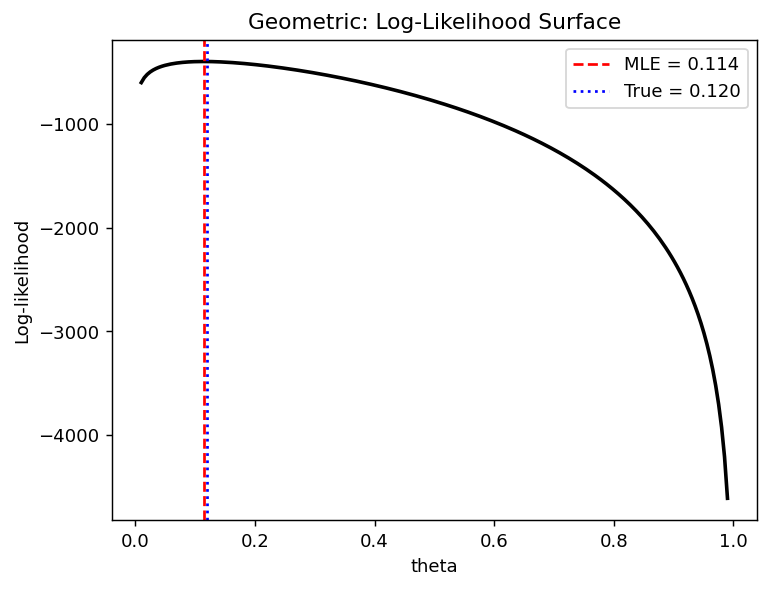
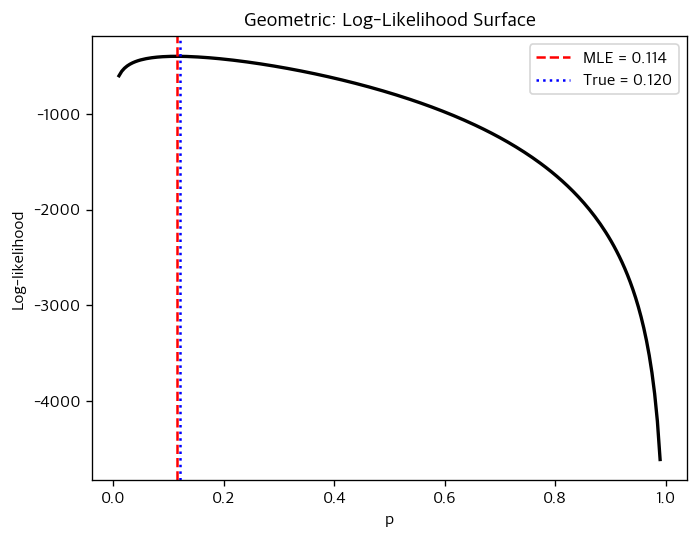
fix(ch06): 보고만 해 두었던 항목을 마무리한다
앞 편집 패스가 고치지 않고 남긴 항목을 하나씩 판정해 끝냈다. 이미 닫힌 것과 보고가
틀린 것은 건드리지 않았고, 펜스를 고친 쪽은 실제로 돌린 출력을 붙여 verify_outputs 로
맞췄다. 그림을 다시 그린 것은 스크립트와 함께 담았다. 바깥 사실은 확인한 출처로만 고쳤다.

Changed region(s): [[0.0, 0.0, 0.9914, 0.9517], [0.691, 0.2379, 0.8412, 0.3866], [0.5107, 0.9517, 0.6009, 0.9814]]

diff --git a/docs/ch06/mle/mle_optimization.md b/docs/ch06/mle/mle_optimization.md
@@ -2,7 +2,7 @@
 
 ## 개요
 
-같은 자료, 같은 코드, 바꾼 것은 출발값 하나다. 성분 둘짜리 정규 혼합에 적합하면 한 출발점은 $\mu_1 = 0.154$, $\mu_2 = 3.900$ 을 주고 다른 출발점은 그 둘을 맞바꾼 답을 주는데, 음의 로그가능도는 둘 다 $402.58$ 로 **한 치도 다르지 않다.** 그렇다고 봉우리를 격자로 훑어 가려 보려 들면 모수 하나를 소수 넷째 자리까지 맞히는 데 격자점 $20{,}001$ 개가 들고, 그보다 성긴 $500$ 점 격자만 모수 넷에 펼쳐도 $6.25 \times 10^{10}$ 점으로 불어나 애초에 셈이 되지 않는다. 답이 둘인가 같은 답의 두 이름인가, 그리고 그것을 격자 없이 어떻게 가리는가.
+같은 자료, 같은 코드, 바꾼 것은 출발값 하나다. 성분 둘짜리 정규 혼합에 적합하면 한 출발점은 $\mu_1 = 0.154$, $\mu_2 = 3.900$ 을 주고 다른 출발점은 그 둘을 맞바꾼 답을 주는데, 음의 로그가능도는 둘 다 $402.58$ 로 **한 치도 다르지 않다.** 그렇다고 봉우리를 격자로 훑어 가려 보려 들면 모수 하나의 오차를 $10^{-4}$ 안으로 묶는 데만 격자점 $20{,}001$ 개가 들고, 그보다 성긴 $500$ 점 격자만 모수 넷에 펼쳐도 $6.25 \times 10^{10}$ 점으로 불어나 애초에 셈이 되지 않는다. 답이 둘인가 같은 답의 두 이름인가, 그리고 그것을 격자 없이 어떻게 가리는가.
 
 닫힌 해가 있는 모형은 드물다. 대부분은 로그가능도를 **직접 계산해** 그 봉우리를 **찾아야** 한다. 이 쪽은 그 두 일을 차례로 다룬다.
 
@@ -588,7 +588,7 @@ $$
 
     더 눈여겨볼 것은 로그가능도의 손실이다. 실제 $2.402909\times10^{-6}$과 이차식이 예측한 $2.402909\times10^{-6}$이 **일곱 자리까지 같다.** (1)에서 포물선이 근사가 아니라 항등식이라고 한 그대로이며, 근사가 아니라 정확한 예측이다.
 
-    **격자의 대가는 여기서 분명해진다.** $\hat\mu$를 소수 넷째 자리까지 맞히려면 간격을 $2\times10^{-4}$ 아래로 줄여야 하므로 격자점이 $20{,}001$개 필요하다. 지금의 $500$점보다 $40$배다. 닫힌 해 $\bar x$는 덧셈 $100$번이면 끝나고 자리 손실도 없다. **닫힌 해가 있으면 격자를 쓸 이유가 없고**, 격자는 닫힌 해가 없을 때 또는 곡면의 모양을 눈으로 보고 싶을 때 쓰는 도구다.
+    **격자의 대가는 여기서 분명해진다.** $\hat\mu$의 오차를 소수 넷째 자리의 한 단위 $10^{-4}$ 안으로 묶으려면 반 칸이 $10^{-4}$, 곧 간격이 $2\times10^{-4}$ 이하여야 하므로 격자점이 $20{,}001$개 필요하다. 지금의 $500$점보다 $40$배다. 넷째 자리를 **반올림까지** 맞히려면 반 칸이 $0.5\times10^{-4}$ 이어야 하니 간격 $10^{-4}$, 격자점 $40{,}001$개로 다시 두 배가 된다. 닫힌 해 $\bar x$는 덧셈 $100$번이면 끝나고 자리 손실도 없다. **닫힌 해가 있으면 격자를 쓸 이유가 없고**, 격자는 닫힌 해가 없을 때 또는 곡면의 모양을 눈으로 보고 싶을 때 쓰는 도구다.
 
     모수가 $d$개면 격자점이 $(\text{격자 수})^d$로 폭발한다는 점도 함께 기억해 두자. 지금 쓴 $500$점을 모수 넷에 똑같이 적용하면 $500^4 = 6.25\times10^{10}$점이 되어 계산이 불가능하다.
 
@@ -833,11 +833,14 @@ $$
 
     # 출발값을 바꿔 가며 어디로 수렴하는지 본다.
     starts = [[0, -1, 5, 0], [0, 2, 2, 0], [0, 0, 3, 0.5]]
+    nlls = []
     for i, x0 in enumerate(starts):
         result = optimize.minimize(mixture_log_likelihood, x0, args=(data,), method="Nelder-Mead")
         pi_hat = 1 / (1 + np.exp(-result.x[0]))
+        nlls.append(result.fun)
         print(f"Start {i+1}: pi={pi_hat:.3f}, mu1={result.x[1]:.3f}, "
               f"mu2={result.x[2]:.3f}, nll={result.fun:.2f}")
+    print(f"세 nll 의 최대 차이 = {max(nlls) - min(nlls):.1e}")
 
     # (1) 이 말한 불변성을 직접 확인한다.
     best = optimize.minimize(mixture_log_likelihood, starts[0], args=(data,),
@@ -863,6 +866,7 @@ $$
     Start 1: pi=0.374, mu1=0.154, mu2=3.900, nll=402.58
     Start 2: pi=0.626, mu1=3.900, mu2=0.154, nll=402.58
     Start 3: pi=0.374, mu1=0.154, mu2=3.899, nll=402.58
+    세 nll 의 최대 차이 = 4.6e-08
 
     nll(theta)   = 402.578187662901
     nll(swapped) = 402.578187662901
@@ -874,7 +878,7 @@ $$
 
     **불변성이 비트까지 확인되었다.** 이름을 맞바꾼 모수에서 음의 로그가능도를 다시 재면 $402.578187662901$로 자릿수 하나 다르지 않다. 반올림 오차 수준으로 같은 것이 아니라 **정확히 같은 수**다. 관측마다 같은 두 항이 자리만 바꾸어 더해지는데, 수 **두 개**의 부동소수점 덧셈은 순서를 바꿔도 결과가 비트까지 같기 때문이다. $\hat\pi$도 $0.374353 + 0.625647 = 1.000000$으로 맞물린다.
 
-    **따라서 세 결과는 모두 전역 최대다.** 출발 2가 다른 답을 준 것이 아니라 같은 답에 다른 이름을 붙였을 뿐이고, 국소 최적에 갇힌 것과는 성질이 전혀 다르다. 세 `nll`을 소수 아래까지 펼쳐 보면 $5\times10^{-8}$ 안에서 같은데, 이는 넬더–미드가 멈춘 자리의 차이일 뿐 봉우리가 달라서 생긴 차이가 아니다.
+    **따라서 세 결과는 모두 전역 최대다.** 출발 2가 다른 답을 준 것이 아니라 같은 답에 다른 이름을 붙였을 뿐이고, 국소 최적에 갇힌 것과는 성질이 전혀 다르다. 세 `nll`을 소수 아래까지 펼쳐 보면 최대 차이가 $4.6\times10^{-8}$으로 $5\times10^{-8}$ 안에서 같은데(출력 넷째 줄), 이는 넬더–미드가 멈춘 자리의 차이일 뿐 봉우리가 달라서 생긴 차이가 아니다.
 
     **그렇다고 라벨 바꿈이 무해하지는 않다.** 같은 자료에 여러 번 적합하거나 [MCMC](../../glossary.md#mcmc)로 사후표본을 모으면 $\mu_1$이 어떤 때는 $0.15$, 어떤 때는 $3.90$으로 튀어 **평균을 내면 $2$ 언저리라는 엉뚱한 값**이 나온다. 그래서 실무에서는 $\mu_1 < \mu_2$ 같은 **순서 제약**을 걸거나, 적합이 끝난 뒤 성분을 평균순으로 정렬해 이름을 통일한다.
 
@@ -1029,7 +1033,7 @@ $$
 
     큰수의 법칙에 따라 $\hat I/n \to I_1(\theta)$이므로 $n$이 크면 둘이 가까워진다.
 
-    분포에 따라 아예 같은 경우도 있다. 지수분포(exponential distribution)에서 $\ell'' = -n/\lambda^2$은 자료에 의존하지 않으므로 관측정보량과 기대정보량이 정확히 같다. 베르누이에서는 $\hat I = n/\{\hat p(1-\hat p)\}$이고 $I(\hat p)$도 같은 값이라 역시 일치한다. **정준연결 지수족에서는 언제나 일치한다.**
+    분포에 따라 아예 같은 경우도 있다. 지수분포(exponential distribution)에서 $\ell'' = -n/\lambda^2$은 자료에 의존하지 않으므로 관측정보량과 기대정보량이 정확히 같다. 베르누이에서는 $\hat I = n/\{\hat p(1-\hat p)\}$이고 $I(\hat p)$도 같은 값이라 역시 일치한다. **지수족이면 어떤 모수화로 적든 MLE 자리에서는 언제나 일치한다.** 자연모수 $\eta$로 적으면 $-\ell''(\eta) = nA''(\eta)$가 자료에 의존하지 않아 모든 자리에서 같고, 다른 모수로 옮겨도 $-\ell''$에 붙는 나머지 항이 $\bar T - A'(\eta)$에 비례해 $\hat\eta$에서 $0$이 되기 때문이다. 베르누이를 $p$로 적은 위의 예가 MLE 에서만 일치하는 것이 그 경우다(GLM 의 정준연결에서 둘이 늘 같은 것도 같은 까닭이다).
 
     **어느 쪽을 쓸까.** 일반적으로 **관측정보량**이 권장되며, 이유는 세 가지다.
 
@@ -1066,9 +1070,18 @@ $$
     수학적으로 정확한 항등식이다($e^M$을 묶어 낸 것). 그런데 수치적으로는 완전히 다르다. 지수의 인수 $a_k - M$이 모두 0 이하이므로 $e^{a_k-M} \in (0,1]$이고, 적어도 하나(최댓값에 해당하는 항)는 정확히 1이다. **오버플로가 불가능하고, 합이 1 이상이라 언더플로도 무해하다.**
 
     ```python
+    import numpy as np
     from scipy.special import logsumexp
-    print(logsumexp([-1000, -1001, -1002]))   # -999.59...
-    print(np.log(np.sum(np.exp([-1000, -1001, -1002]))))   # -inf
+
+    print(logsumexp([-1000, -1001, -1002]))
+    print(np.log(np.sum(np.exp([-1000, -1001, -1002]))))   # log(0) 경고와 함께
+    ```
+
+    출력:
+
+    ```
+    -999.5923940355556
+    -inf
     ```
 
     **어디에 쓰이는가.**

diff --git a/docs/ch06/estimation_methods/moments_foundations.md b/docs/ch06/estimation_methods/moments_foundations.md
@@ -391,7 +391,7 @@ $\text{Uniform}(0, \theta)$에서 얻은 표본에 대해 $\theta$의 적률법 
 <div class="drillbox" markdown>
 
 **연습문제 2.** <span class="diff med" title="중간"></span>
-$E[X] = \alpha/\beta$이고 $\text{Var}(X) = \alpha/\beta^2$인 $\text{Gamma}(\alpha, \beta)$에서 얻은 표본에 대해 처음 두 적률을 사용하여 $\alpha$와 $\beta$의 적률법 추정량을 유도하라.
+$E[X] = \alpha/\beta$이고 $\text{Var}(X) = \alpha/\beta^2$인 $\text{Gamma}(\alpha, \beta)$(비율 모수화. 다음 쪽 [흔한 분포에 대한 적률법](moments_examples.md)은 척도 모수화 $E[X]=\alpha\beta$를 쓴다)에서 얻은 표본에 대해 처음 두 적률을 사용하여 $\alpha$와 $\beta$의 적률법 추정량을 유도하라.
 
 </div>
 
@@ -704,6 +704,7 @@ $E[X] = \alpha/\beta$이고 $\text{Var}(X) = \alpha/\beta^2$인 $\text{Gamma}(\a
 
     **그런데 같은 자료의 중앙값은 수렴한다.** $-0.137 \to 0.0036$ 으로 정규의 표본평균과 비슷한 속도다. 코시의 위치모수를 **추정할 수 없는 것이 아니라 적률로 추정할 수 없는 것**이다. 분위수(quantile)는 적률이 없어도 늘 존재하므로, 적률법이 막히는 자리에서 분위수 기반 추정이 길이 된다(연습문제 16 의 「대안」).
 
+---
 
 <div class="drillbox" markdown>
 
@@ -727,6 +728,7 @@ $E[X] = \alpha/\beta$이고 $\text{Var}(X) = \alpha/\beta^2$인 $\text{Gamma}(\a
 
     적률법 추정량은 참 분산을 $\sigma^2/n$만큼 과소추정한다. 이 편향은 $n \to \infty$일 때 사라지므로 추정량은 점근적으로 불편이다.
 
+---
 
 <div class="drillbox" markdown>
 
@@ -770,6 +772,7 @@ $E[X] = \alpha/\beta$이고 $\text{Var}(X) = \alpha/\beta^2$인 $\text{Gamma}(\a
 
     이며, 등호는 적률법이 충분통계량의 함수일 때만 성립한다. 감마분포에서 $\alpha$를 추정하면 [ARE](../../glossary.md#are)가 $\alpha$에 따라 달라져 $\alpha = 1$에서 $0.388$, $\alpha = 10$에서 $0.880$이다([적률법과 최대가능도의 비교](moments_vs_mle.md)의 표). 같은 정밀도를 얻으려면 표본이 $\alpha = 1$에서 $2.58$배, $\alpha = 10$에서 $1.14$배 들고, $\alpha$가 작을수록 격차가 커진다.
 
+---
 
 <div class="drillbox" markdown>
 
@@ -800,6 +803,7 @@ $E[X] = \alpha/\beta$이고 $\text{Var}(X) = \alpha/\beta^2$인 $\text{Gamma}(\a
 
     **교훈.** **적률법은 모수공간을 존중하지 않는다.** 적률방정식이 대수적 관계일 뿐 제약을 모르기 때문이다. 이것이 MLE에 견주어 갖는 근본적인 약점 중 하나다.
 
+---
 
 <div class="drillbox" markdown>
 
@@ -829,6 +833,7 @@ $E[X] = \alpha/\beta$이고 $\text{Var}(X) = \alpha/\beta^2$인 $\text{Gamma}(\a
 
     **더 나은 접근.** 모수보다 적률 조건을 **많이** 두고 GMM으로 최적 가중해 결합하면, 어느 하나를 고르는 대신 정보를 모두 쓸 수 있다. 그것이 GMM이 적률법의 자연스러운 확장인 이유다.
 
+---
 
 <div class="drillbox" markdown>
 
@@ -861,6 +866,7 @@ $E[X] = \alpha/\beta$이고 $\text{Var}(X) = \alpha/\beta^2$인 $\text{Gamma}(\a
 
     **대가.** 계산이 조금 더 복잡하고(순서통계량이 필요) 이론이 덜 익숙하며, 최대가능도만큼 효율적이지는 않다. 그래도 **꼬리가 두꺼운 소표본에서는 MLE보다 안정적인 경우가 많다.**
 
+---
 
 <div class="drillbox" markdown>
 
@@ -891,6 +897,7 @@ $E[X] = \alpha/\beta$이고 $\text{Var}(X) = \alpha/\beta^2$인 $\text{Gamma}(\a
 
     **대안.** 적률이 미덥지 않으면 **L-적률이나 분위수 기반 추정**으로 옮긴다. 분위수는 언제나 존재하고 유한하므로 적률 부재 문제가 없다.
 
+---
 
 <div class="drillbox" markdown>
 

diff --git a/docs/ch06/bayesian/map_estimation.md b/docs/ch06/bayesian/map_estimation.md
@@ -279,7 +279,7 @@ $\mathrm{Beta}(\alpha, \beta)$ 사전분포를 쓴 $X \sim \mathrm{Binomial}(n, 
     |---|---|---|
     | Bernoulli$(p)$ | Beta$(\alpha, \beta)$ | Beta$(\alpha + x, \beta + n - x)$ |
     | Poisson$(\lambda)$ | Gamma$(\alpha, \beta)$ | Gamma$(\alpha + \sum X_i, \beta + n)$ |
-    | Normal$(\mu, \sigma^2)$, $\sigma$ 알려짐 | Normal$(\mu_0, \tau_0^2)$ | Normal (갱신됨) |
+    | Normal$(\mu, \sigma^2)$, $\sigma$ 알려짐 | Normal$(\mu_0, \sigma_0^2)$ | Normal (갱신됨) |
     | Exponential$(\lambda)$ | Gamma$(\alpha, \beta)$ | Gamma$(\alpha + n, \beta + \sum X_i)$ |
 
     **현대적 단서:** [MCMC](../../glossary.md#mcmc)와 HMC를 쓸 수 있게 되면서 켤레성은 더 이상 필수가 아니다. 임의의 사전분포와 가능도를 쓰고 사후분포를 수치적으로 표본추출할 수 있다. 켤레성은 교육적으로 다루기 쉽다는 점과 기준선 역할로서 여전히 가치가 있다.
@@ -347,9 +347,9 @@ MAP 추정이 **벌점 가능도**와 같음을 보이고, 능형·라쏘가 각
     -\ln\pi(\boldsymbol\beta) = \lambda\|\boldsymbol\beta\|^2 \implies \pi(\boldsymbol\beta)\propto e^{-\lambda\|\boldsymbol\beta\|^2}
     $$
 
-    로 **평균 0, 분산 $\tau^2 = 1/(2\lambda)$인 정규 사전분포**다. 능형회귀를 흔히 쓰는 꼴 $\sum_i(y_i - \mathbf{x}_i^\top\boldsymbol\beta)^2 + \lambda\|\boldsymbol\beta\|^2$ 로 적으면 사정이 조금 다르다. 오차분산이 $\sigma^2$ 일 때 음의 로그가능도는 잔차제곱합을 $2\sigma^2$ 으로 나눈 것이므로, 목적함수 전체에 $2\sigma^2$ 을 곱해 맞추면 $\lambda = \sigma^2/\tau^2$, 곧 사전분산이 $\tau^2 = \sigma^2/\lambda$ 다.
+    로 **평균 0, 분산 $\sigma_0^2 = 1/(2\lambda)$인 정규 사전분포**다. 능형회귀를 흔히 쓰는 꼴 $\sum_i(y_i - \mathbf{x}_i^\top\boldsymbol\beta)^2 + \lambda\|\boldsymbol\beta\|^2$ 로 적으면 사정이 조금 다르다. 오차분산이 $\sigma^2$ 일 때 음의 로그가능도는 잔차제곱합을 $2\sigma^2$ 으로 나눈 것이므로, 목적함수 전체에 $2\sigma^2$ 을 곱해 맞추면 $\lambda = \sigma^2/\sigma_0^2$, 곧 사전분산이 $\sigma_0^2 = \sigma^2/\lambda$ 다.
 
-    어느 꼴이든 $\lambda$가 클수록 $\tau^2$이 작아 계수가 0 근처에 있다는 강한 믿음이 된다.
+    어느 꼴이든 $\lambda$가 클수록 $\sigma_0^2$이 작아 계수가 0 근처에 있다는 강한 믿음이 된다.
 
     **라쏘.** 벌점이 $\lambda\|\boldsymbol\beta\|_1$이므로
 

diff --git a/docs/ch06/mle/mle_poisson.md b/docs/ch06/mle/mle_poisson.md
@@ -83,7 +83,7 @@ $$
 
 왼쪽은 관측된 계수의 비율과 $\hat\lambda$로 맞춘 확률질량함수를 나란히 놓은 것이다. 자료는 들쭉날쭉하지만 맞춘 분포는 매끄럽다. **표본평균 하나만으로 모든 막대의 높이가 정해진다**는 점이 포아송분포의 특징이다. 모수가 하나뿐이라 평균이 정해지면 분산도, 꼬리도 함께 정해진다.
 
-오른쪽 로그가능도의 봉우리가 그 $\bar x$에 있다. 점선은 꼭대기에서 $1.92$만큼 내려온 높이인데, 곡선이 그 위에 머무는 구간이 **가능도비(likelihood ratio) 방식의 95% 신뢰구간**이다($\chi^2_1$의 95% 분위수(quantile) $3.84$의 절반이 $1.92$다). 정규근사로 $\hat\lambda \pm 1.96\sqrt{\hat\lambda/n}$을 쓰면 거의 같은 구간이 나오지만, 가능도비 쪽은 $\lambda$가 작아 로그가능도가 비대칭일 때도 좌우 폭을 다르게 잡아 준다.
+오른쪽 로그가능도의 봉우리가 그 $\bar x$에 있다. 점선은 꼭대기에서 $1.92$만큼 내려온 높이인데, 곡선이 그 위에 머무는 구간이 **가능도비(likelihood ratio) 방식의 95% 신뢰구간**이다($\chi^2_1$의 95% 분위수(quantile) $3.84$의 절반이 $1.92$다). 이 자료($n = 6$, $\hat\lambda = 2$)에서 가능도비 구간은 $[1.07,\ 3.35]$이고, 정규근사 $\hat\lambda \pm 1.96\sqrt{\hat\lambda/n}$은 $[0.87,\ 3.13]$이다. 폭은 $2.28$ 대 $2.26$으로 비슷하지만 **가능도비 구간이 통째로 $0.2$쯤 오른쪽에 있다.** 로그가능도가 왼쪽은 가파르고 오른쪽은 완만하게 비대칭이라, 가능도비 쪽이 그 모양대로 좌우 폭을 다르게 잡기 때문이다($\hat\lambda$에서 왼쪽으로 $0.93$, 오른쪽으로 $1.35$). $n$이 이렇게 작으면 둘의 차이를 무시할 수 없다.
 
 ---
 
